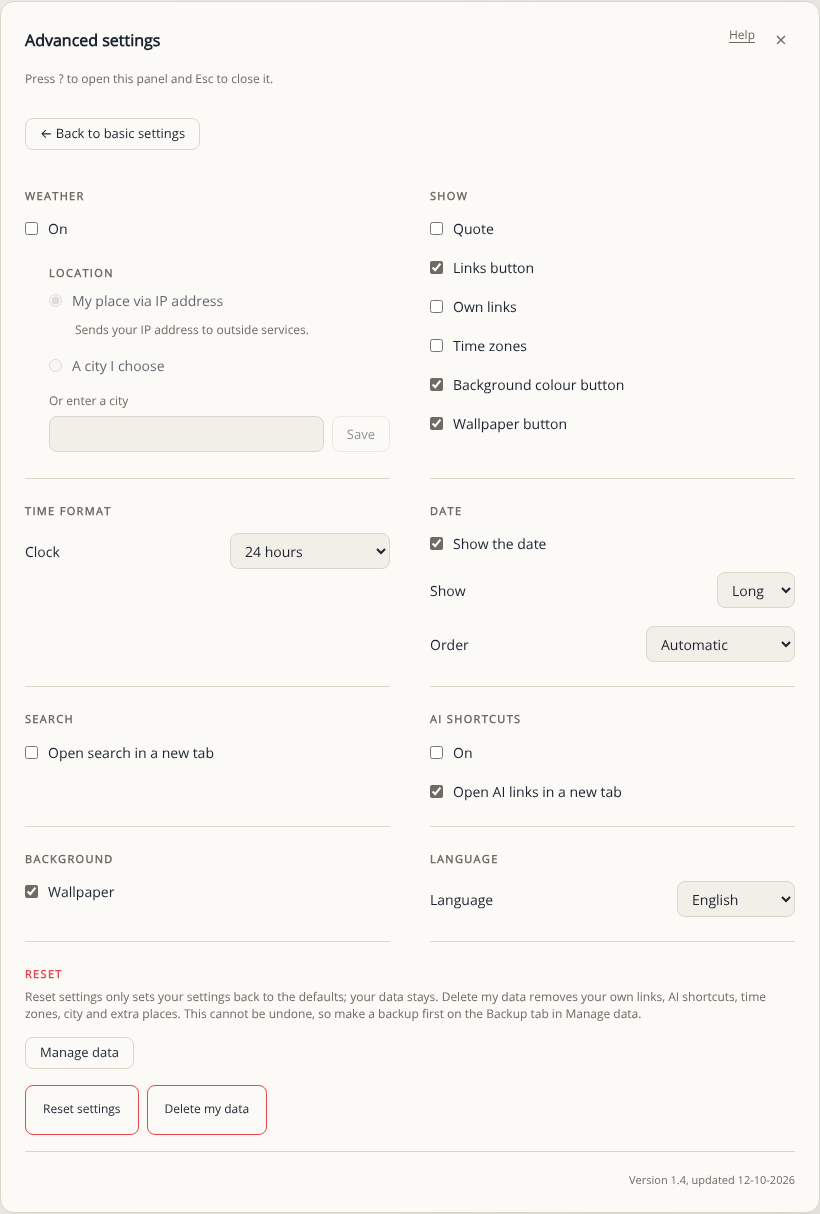
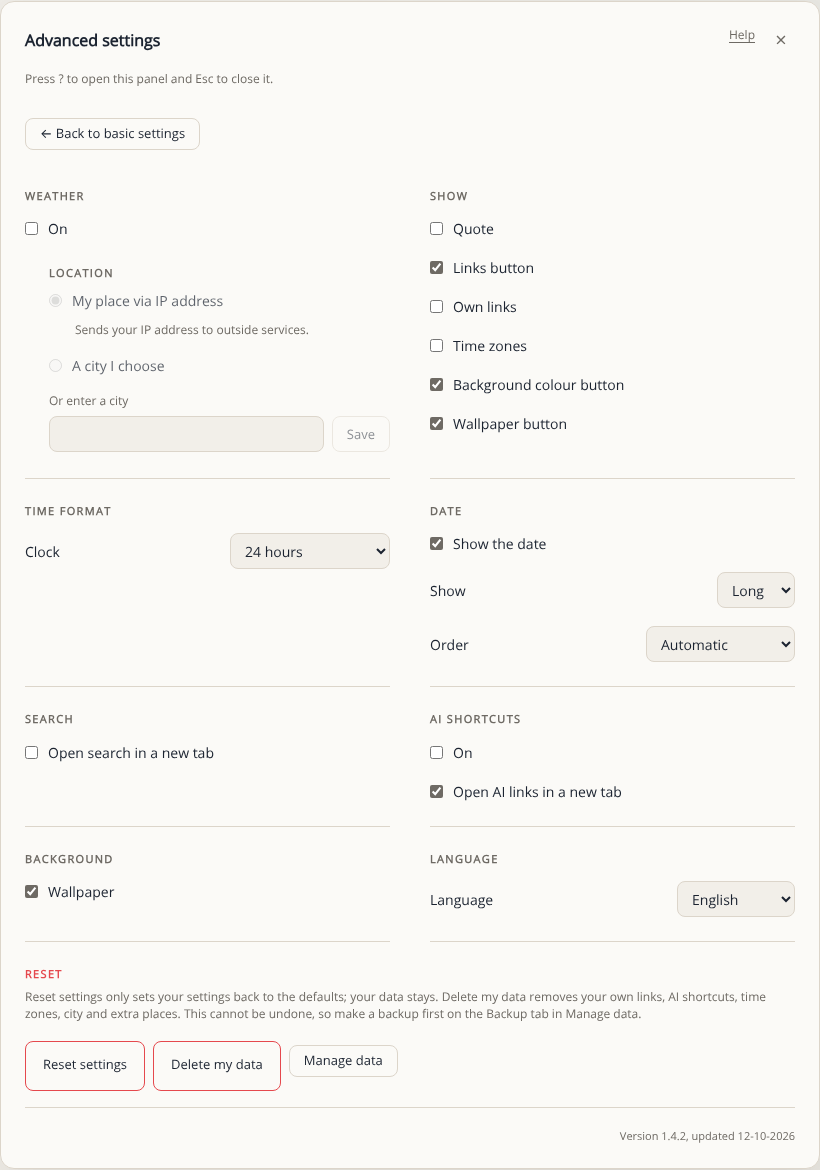
Manage data beside the reset buttons, normal button height (1.4.2)
Manage data beside the reset buttons, normal button height (1.4.2)

diff --git a/index.html b/index.html
@@ -168,10 +168,10 @@
         <section class="adv-group reset-group">
           <p class="location-title" id="sec-reset">Reset</p>
           <p class="reset-intro" id="reset-intro"></p>
-          <button type="button" id="reset-backup" class="ghost-button">Manage data</button>
           <div class="reset-boxes">
             <div class="danger-box"><button type="button" id="reset-settings" class="ghost-button">Reset settings</button></div>
             <div class="danger-box"><button type="button" id="reset-data" class="ghost-button">Delete my data</button></div>
+            <button type="button" id="reset-backup" class="ghost-button">Manage data</button>
           </div>
         </section>
       </div>

diff --git a/style.css b/style.css
@@ -2013,6 +2013,7 @@ button.action:disabled {
 .reset-boxes {
   display: flex;
   flex-wrap: wrap;
+  align-items: center;
   gap: 8px;
   margin-top: 8px;
 }
@@ -2025,10 +2026,11 @@ button.action:disabled {
 }
 
 .danger-box .ghost-button {
-  min-height: 28px;
-  padding: 4px 10px;
-  font-size: 12px;
+  height: 32px;
+  min-height: 0;
+  padding: 0 14px;
   border: none;
+  white-space: nowrap;
 }
 
 /* Version and last update, bottom right of the settings panel. */

diff --git a/script.js b/script.js
@@ -1,6 +1,6 @@
 const root = document.documentElement
 // The last number goes up with every change; a release gets the next version number, such as 1.4. The date is DD-MM-YYYY.
-const APP_VERSION = '1.4.1'
+const APP_VERSION = '1.4.2'
 const APP_UPDATED = '12-10-2026'
 const searchForm = document.getElementById('searchform')
 const searchBox = document.getElementById('search')
